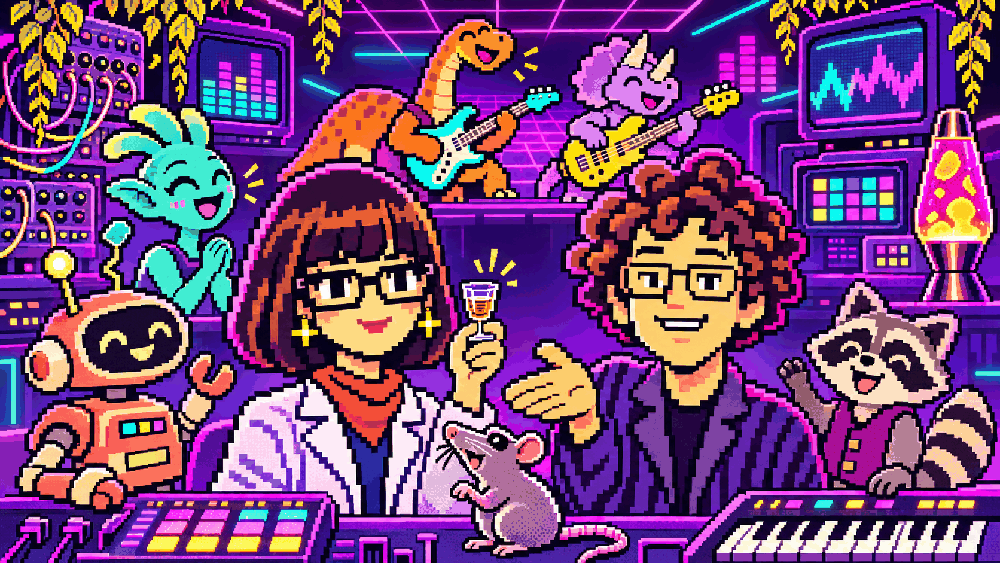
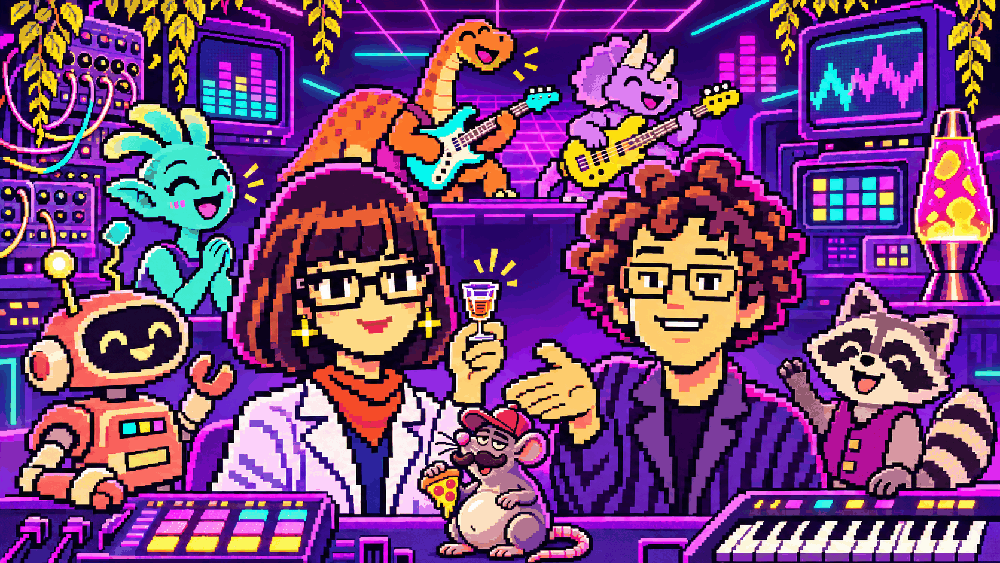
Video University: Rat Dad's real portrait, and he returns to the VID 100 reward

diff --git a/docs/university/vid100-check.html b/docs/university/vid100-check.html
@@ -27,7 +27,7 @@
 <div class="say prof"><span class="who"><img class="face" src="art/prof-video-neutral.png" width="96" height="96" alt="">PROF. VIDEO</span><div><p>Ten questions. There is no time limit. Use the lectures if you need them. That is how real work is done.</p></div></div>
 <section data-quiz="vid100-check" aria-label="Course check"><h2>Course check</h2><div class="q"><p>Video is:</p><div class="opts"><button data-right data-why="Each one is a frame.">Still pictures shown quickly, one after the other</button><button data-why="Each frame is still.">One long moving picture</button></div><p class="why" aria-live="polite"></p></div><div class="q"><p>A clip at 30 fps runs for one minute. How many frames does it have?</p><div class="opts"><button data-right data-why="30 x 60 = 1,800.">1,800</button><button data-why="Multiply. Do not add.">90</button><button data-why="That is 10 seconds.">300</button></div><p class="why" aria-live="polite"></p></div><div class="q"><p>What are the three lights in a screen pixel?</p><div class="opts"><button data-right data-why="Those are the three.">Red, green, blue</button><button data-why="That is a paint idea.">Red, yellow, blue</button><button data-why="That is for ink.">Cyan, magenta, yellow</button></div><p class="why" aria-live="polite"></p></div><div class="q"><p>In 8-bit video, what is the value for full white?</p><div class="opts"><button data-right data-why="All three at their maximum.">255, 255, 255</button><button data-why="That is black.">0, 0, 0</button><button data-why="That is almost black.">1, 1, 1</button></div><p class="why" aria-live="polite"></p></div><div class="q"><p>Which is a resolution?</p><div class="opts"><button data-right data-why="Pixels across and pixels down.">1920 x 1080</button><button data-why="That is an aspect ratio.">16:9</button><button data-why="That is a frame rate.">25 fps</button></div><p class="why" aria-live="polite"></p></div><div class="q"><p>Which is an aspect ratio?</p><div class="opts"><button data-right data-why="Width to height.">16:9</button><button data-why="That is a format.">1080p</button><button data-why="That is a codec.">H.264</button></div><p class="why" aria-live="polite"></p></div><div class="q"><p>Television 4K (UHD) is:</p><div class="opts"><button data-right data-why="Four times 1080p.">3840 x 2160</button><button data-why="No.">4096 x 4096</button><button data-why="No.">4000 x 2000</button></div><p class="why" aria-live="polite"></p></div><div class="q"><p>Which is a container?</p><div class="opts"><button data-right data-why="It holds the video and the sound.">.mov</button><button data-why="That is a codec.">H.264</button><button data-why="That is a cable and signal standard.">HDMI</button></div><p class="why" aria-live="polite"></p></div><div class="q"><p>10 MB and 10 Mb are:</p><div class="opts"><button data-right data-why="B is bytes, b is bits.">Different: 10 MB is eight times bigger</button><button data-why="A big B is 8 bits.">The same</button></div><p class="why" aria-live="polite"></p></div><div class="q"><p>The screen says "no signal" and the source plays. What is a good next check?</p><div class="opts"><button data-right data-why="One link at a time, in order.">That the output is on, then the cable, then the input</button><button data-why="That removes nothing from the question.">Reinstall the software</button><button data-why="It does not repair itself.">Wait</button></div><p class="why" aria-live="polite"></p></div><p class="uni-score" aria-live="polite"></p></section>
 <div class="say pix"><span class="who"><img class="face" src="art/dr-pixel-neutral.png" width="96" height="96" alt="">DR. PIXEL</span><div><p>Bravo, skapi. Now you know what the words mean. Next come the courses with the tools.</p></div></div>
-<section class="uni-reward" data-reward="vid100-check" hidden><h2>All ten right</h2><div class="say pix"><span class="who"><img class="face" src="art/dr-pixel-rakia.png" width="96" height="96" alt="Dr. Pixel raising a small glass of rakia">DR. PIXEL</span><div><p>Nazdrave, skapi! Baba's rakia, from Belogradchik. One glass, for the course.</p></div></div><div class="say prof"><span class="who"><img class="face" src="art/prof-video-cute.png" width="96" height="96" alt="Prof. Video, looking cute">PROF. VIDEO</span><div><p>I am so proud that I forgot which cable I was holding.</p></div></div></section>
+<section class="uni-reward" data-reward="vid100-check" hidden><h2>All ten right</h2><div class="say pix"><span class="who"><img class="face" src="art/dr-pixel-rakia.png" width="96" height="96" alt="Dr. Pixel raising a small glass of rakia">DR. PIXEL</span><div><p>Nazdrave, skapi! Baba's rakia, from Belogradchik. One glass, for the course.</p></div></div><div class="say prof"><span class="who"><img class="face" src="art/prof-video-cute.png" width="96" height="96" alt="Prof. Video, looking cute">PROF. VIDEO</span><div><p>I am so proud that I forgot which cable I was holding.</p></div></div><div class="say rat"><span class="who"><img class="face" src="art/rat-dad.png" width="96" height="96" alt="Rat Dad, a fat rat with a red cap and a moustache, holding a slice of pizza">RAT DAD</span><div><p>Squeak.</p></div></div></section>
 <div class="nextprev"><a href="vid100.html">Course page</a><a href="index.html">The catalogue</a></div>
     </main>
 </body>

diff --git a/docs/university/index.html b/docs/university/index.html
@@ -24,7 +24,7 @@
     <main id="main" class="uni">
     <p class="uni-crumb">Deckboy / Video University</p>
 <h1>Video University</h1>
-<img class="uni-group" src="art/group.png" width="1000" height="563" alt="Dr. Pixel and Prof. Video in a neon studio, with a robot, a teal alien, a raccoon, a rat and a dinosaur band">
+<img class="uni-group" src="art/group.png" width="1000" height="563" alt="Dr. Pixel and Prof. Video in a neon studio, with a robot, a teal alien, a raccoon, Rat Dad and a dinosaur band">
 <p>This is a free course in video for people who run shows. It starts at "what is a pixel?". It continues to networks, lenses, tape, HDR and new codecs. Each lecture has a simulator that you can use in this page. You do not need an account: your progress stays in your browser.</p>
 <div class="say prof"><span class="who"><img class="face" src="art/prof-video-neutral.png" width="96" height="96" alt="">PROF. VIDEO</span><div><p>I teach the history, the signal and the science. I also get lost in patches.</p></div></div>
 <div class="say pix"><span class="who"><img class="face" src="art/dr-pixel-neutral.png" width="96" height="96" alt="">DR. PIXEL</span><div><p>I teach what you plug in, what breaks, and what you check before doors, skapi.</p></div></div>
